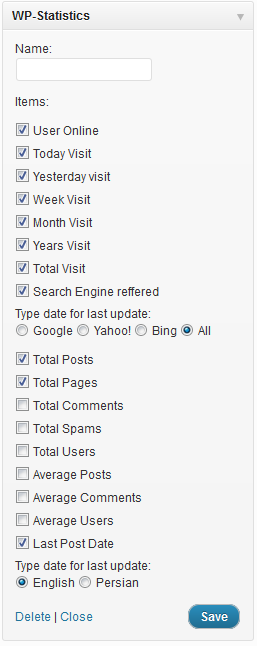
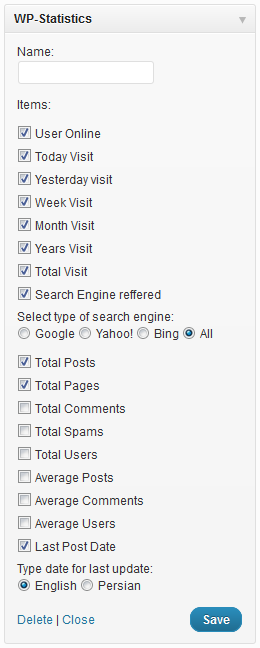
git-svn-id: https://plugins.svn.wordpress.org/wp-statistics/trunk@480852 b8457f37-d9ea-0310-8a92-e5e31aec5664

Changed region(s): [[0.0, 0.0, 0.8405, 0.9907], [0.0311, 0.9288, 0.965, 1.0], [0.9027, 0.0, 0.9961, 0.9907]]

diff --git a/wp-statistics.php b/wp-statistics.php
@@ -1076,7 +1076,7 @@ function wp_statistics_show_widget() {
 			<label for="ser_widget"><?php _e('Search Engine reffered', 'wp_statistics'); ?></label></li>
 
 			<p id="ser_option" style="<?php if(!get_option('ser_widget')) { echo "display: none;"; } ?>">
-				<?php _e('Type date for last update', 'wp_statistics'); ?>:<br />
+				<?php _e('Select type of search engine', 'wp_statistics'); ?>:<br />
 				<input type="radio" id="select_google" name="select_se" value="google" <?php checked('google', get_option('select_se')); ?>/>
 				<label for="select_google"><?php _e('Google', 'wp_statistics'); ?></label>
 
